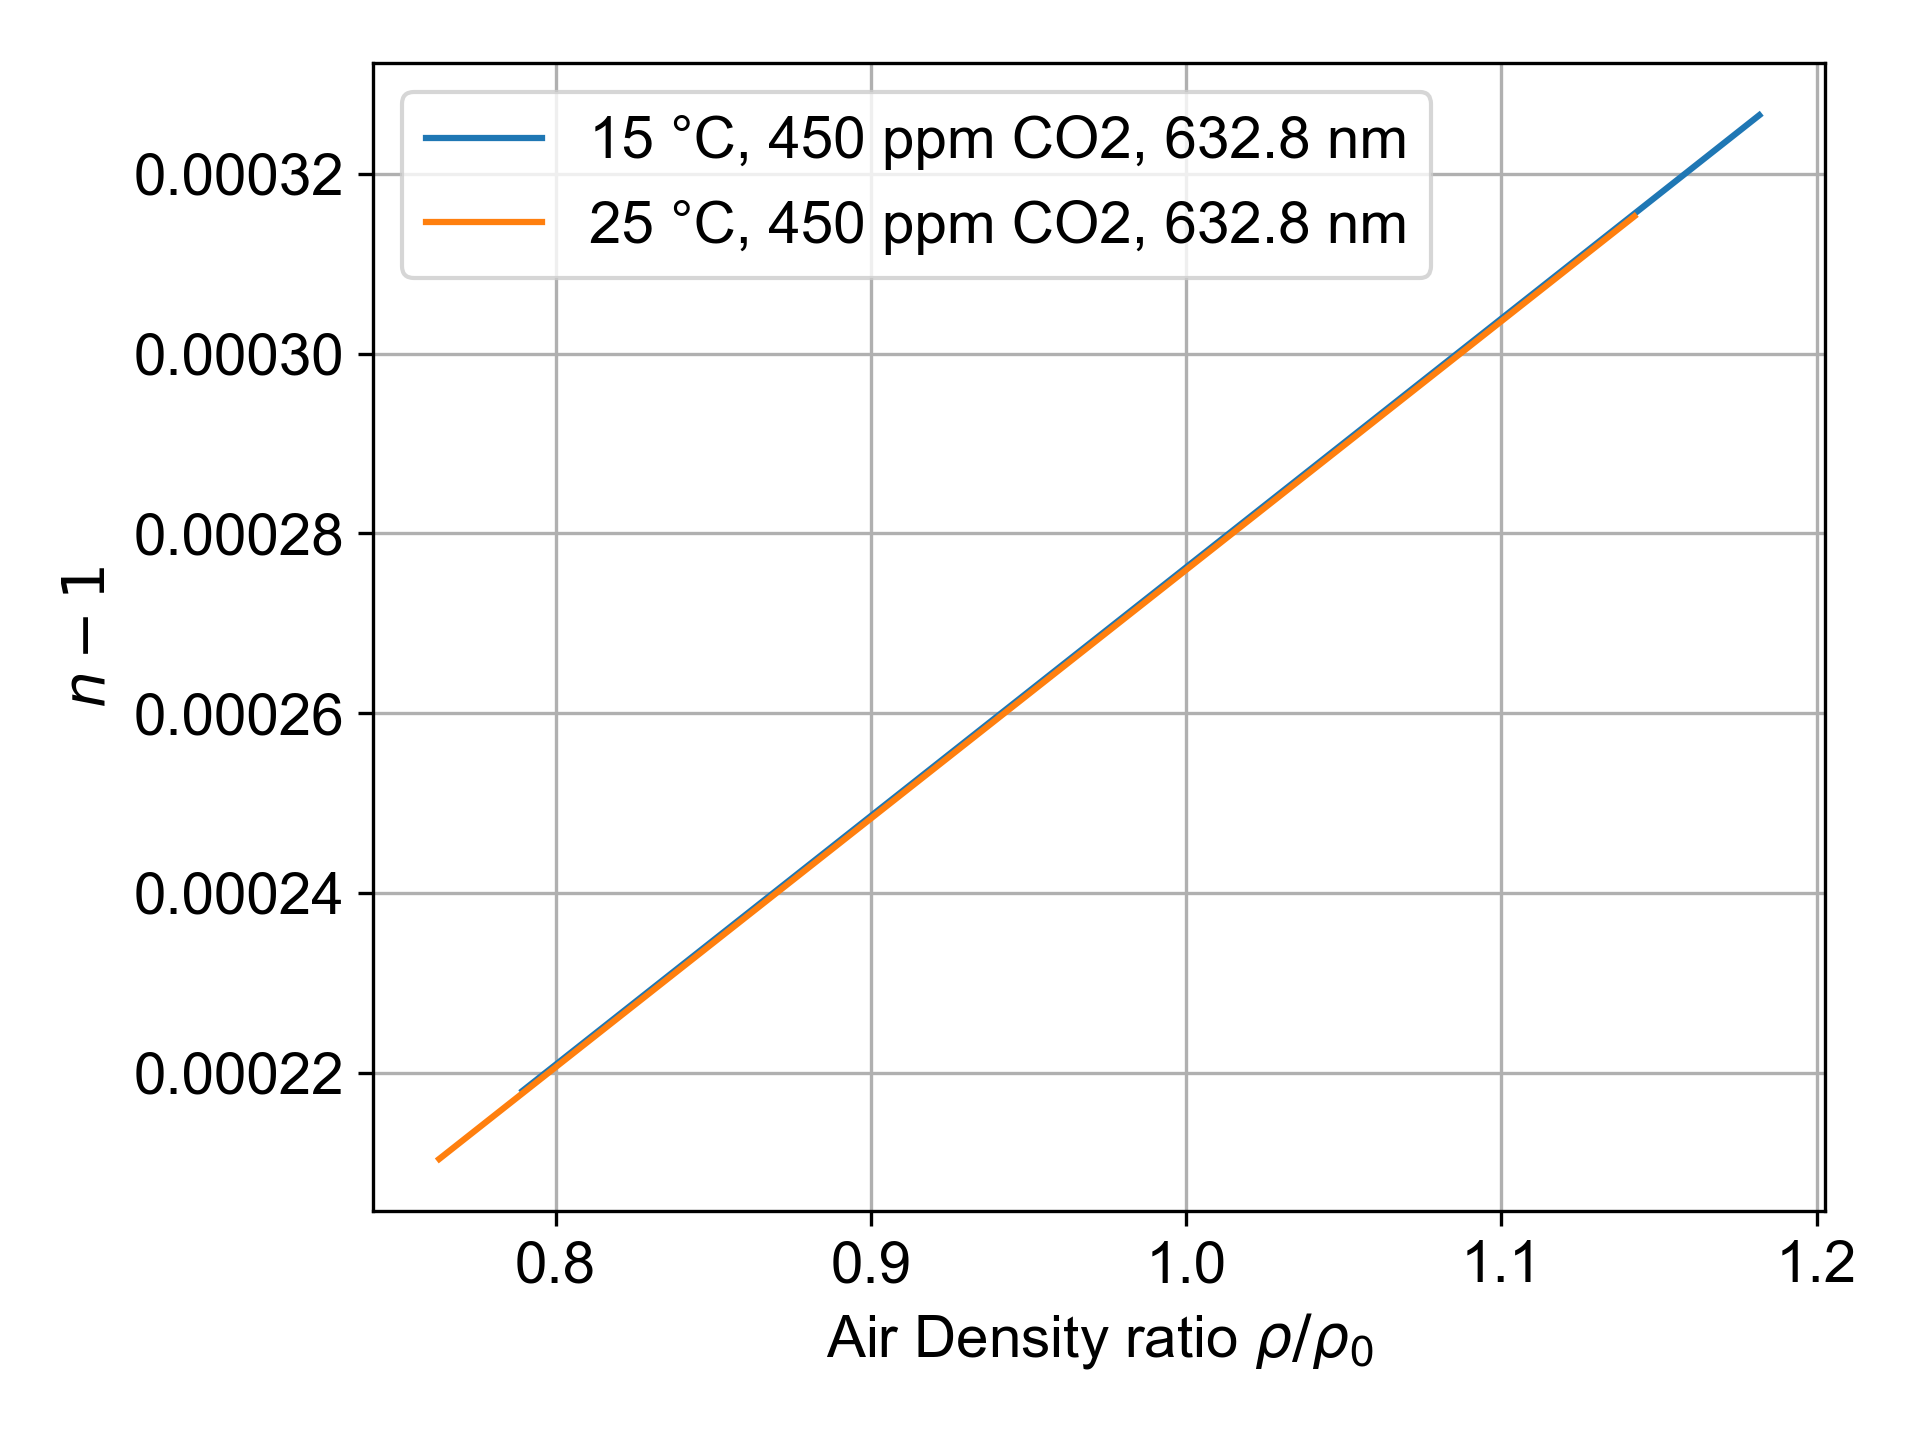
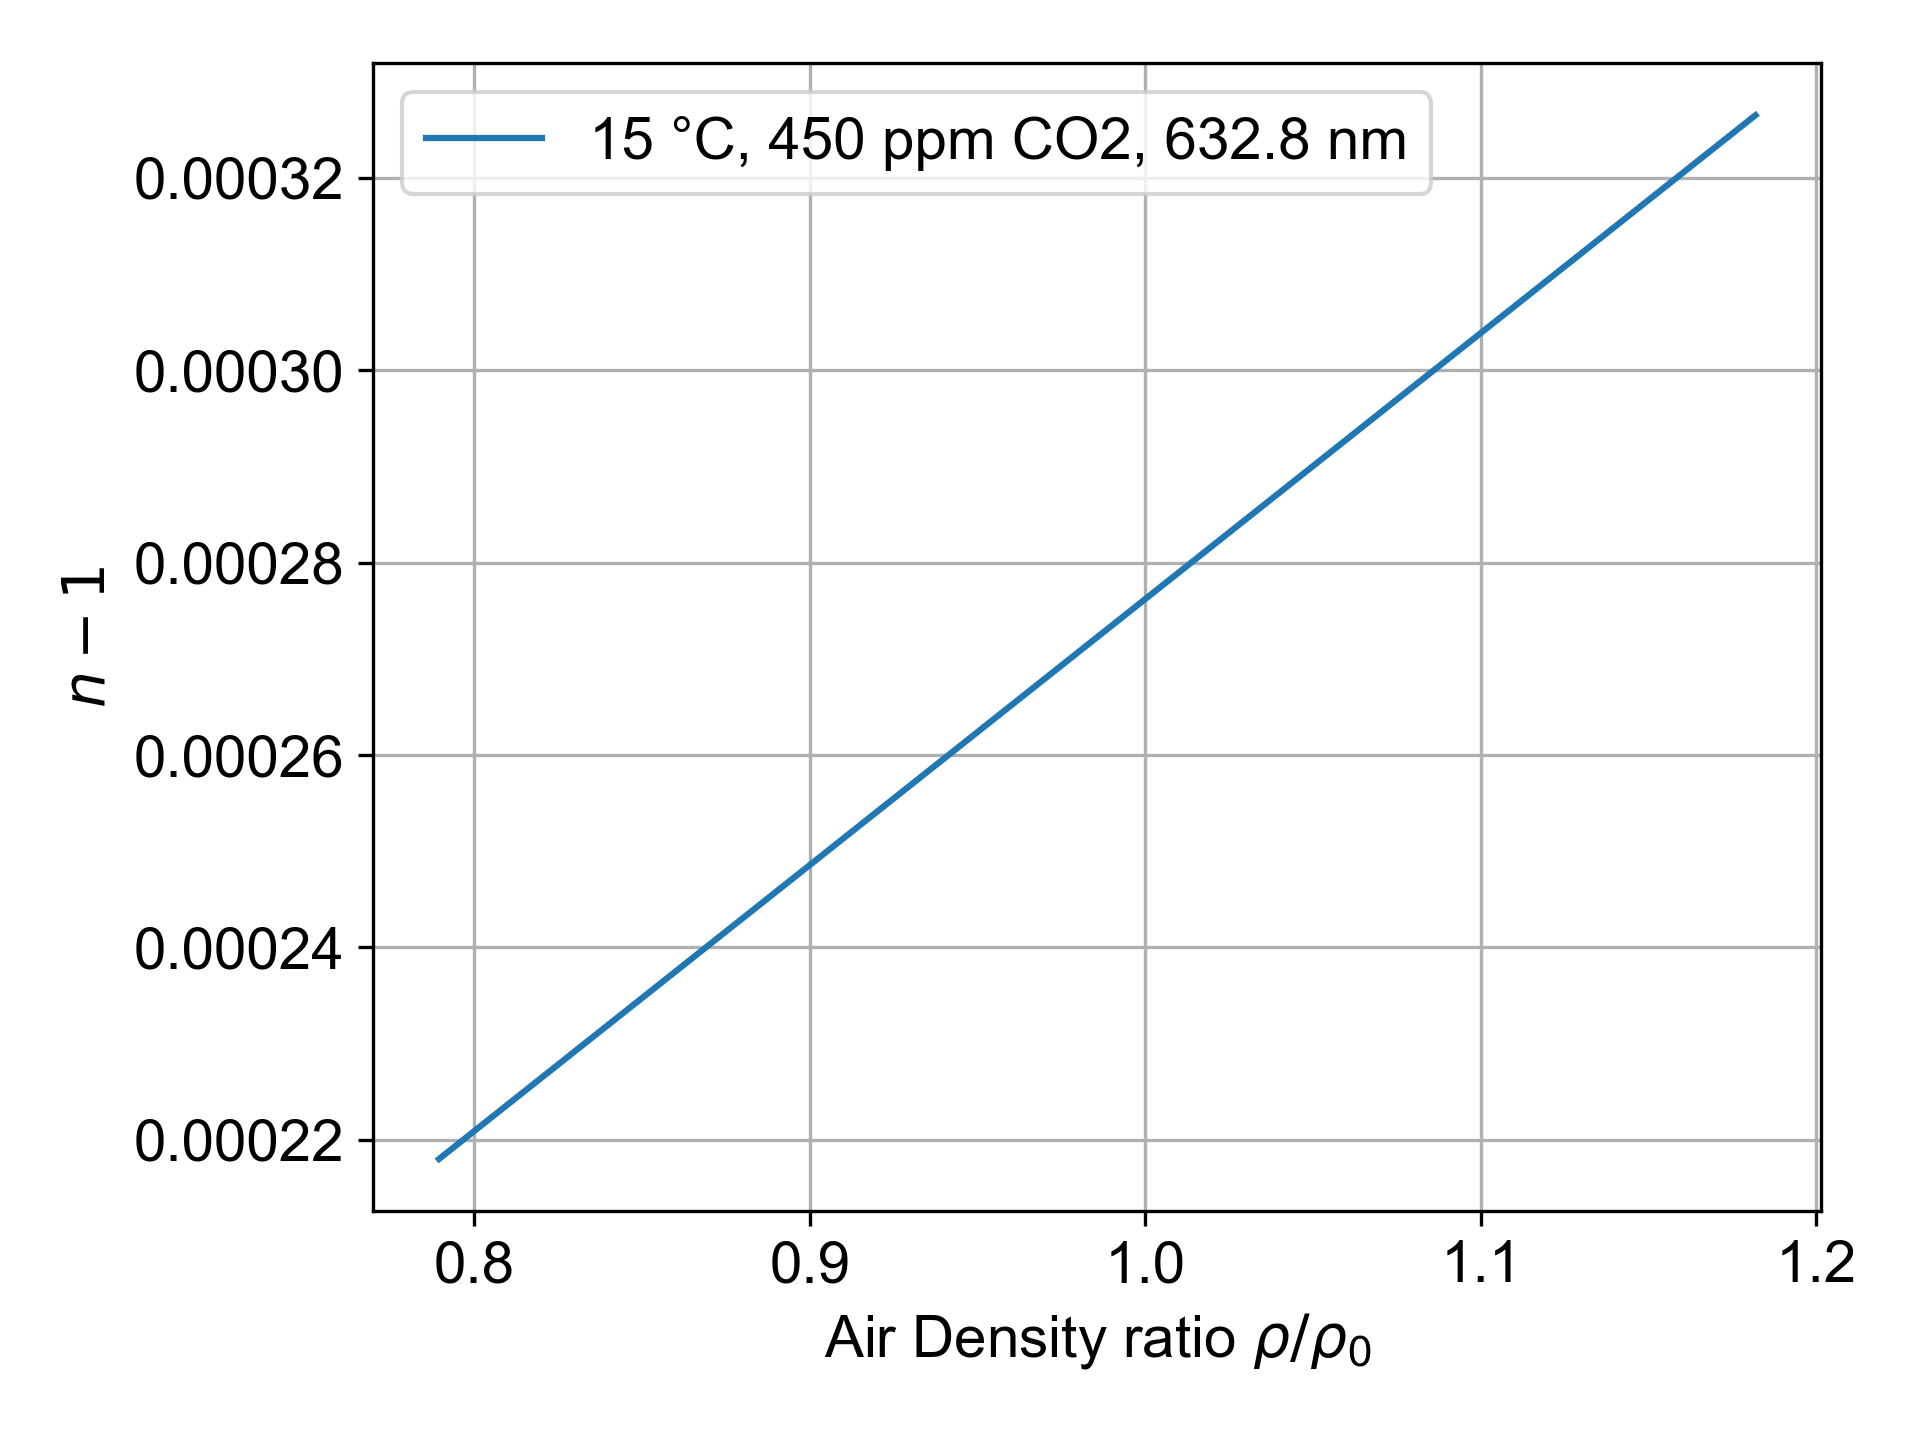
small shift on ftr

diff --git a/IIA/3A3/Supersonic_Nozzle_FTR/FTR.tex b/IIA/3A3/Supersonic_Nozzle_FTR/FTR.tex
@@ -146,10 +146,9 @@ Where $M$ is the Mach number before the shock wave.
 
 \subsection{Schlieren visualisation technique}
 
-The setup for the schlieren visualisation technique is shown in figure \ref{fig:xz_shlierian}.
+The setup for the Schlieren visualisation technique is shown in figure \ref{fig:xz_shlierian}.
 The light source is placed at the focal point of the first mirror, such to get collimated light through the tunnel.
-The second mirror focuses the light onto a knife edge, which blocks the light from reaching the camera.
-Density gradients in the direction normal to the knife edge cause light rays to be deflected, and so some light reaches the camera.
+The second mirror focuses the light onto a knife edge, where density gradients in the direction normal to the knife edge cause light rays to be deflected, and so some light reaches the camera.
 Figure \ref{fig:xz_shlierian} shows rays deflected by horizontal density gradients are blocked by the knife edge.
 Figure \ref{fig:yz_shlierian} shows rays deflected by positive density gradients pass, but rays deflected by negative density gradients are blocked.
 
@@ -162,24 +161,26 @@ Figure \ref{fig:yz_shlierian} shows rays deflected by positive density gradients
 
 \begin{figure}[H]
     \centering
-    \includegraphics[width=0.7\textwidth]{yz_shlierian.jpg}
+    \includegraphics[width=0.8\textwidth]{yz_shlierian.jpg}
     \caption{Sketch of light rays passing through refractive index gradient in YZ plane.}
     \label{fig:yz_shlierian}
 \end{figure}
 
-Equations \ref{eqn:refractive_index_gradient} derived by Mazumdar \cite{Mazumdar_Amrita:2013} indicate it is not the refractive index $n$ causing ray deflection, but the gradient $\partial n / \partial y$ of this refractive index, and that light ray deflections bend towards regions of higher refractive index.
+Equations \ref{eqn:refractive_index_gradient} derived by Mazumdar \cite{Mazumdar_Amrita:2013} shown in the appendix, indicate it is not the refractive index, $n$, causing ray deflection, but the gradient $\partial n / \partial y$ of this refractive index.
+It is also explained that light ray deflections bend towards regions of higher refractive index.
 The relation between the refractive index and density of air is shown to be approximately linear in figure \ref{fig:refractive_index_vs_density} from literature \cite{refractiveindex_info} \cite{Ciddor:96}.
 
 Considering a normal shock wave, the density can be considered as a step function of y.
 This is because the thickness of the shock is on the order of a few molecular-mean-free paths \cite{babinsky_delery:2011}.
 From the linear relation of refractive index and density, the refractive index is also a step function, and so its derivative is a dirac delta function.
 When integrated over the thickness of the shock, as in equation \ref{eqn:refractive_index_gradient}, this gives an angle of deflection proportional to density gradient.
+This means that wider, darker bands with a larger angle of deflection correspond to regions of higher density gradient, and so stronger shock waves.
 
 For regions of negetive density gradient, the light rays are deflected towards the knife edge and so are blocked, and so appear dark in the image.
 For regions of positive density gradient, the light rays are deflected away from the knife edge and so pass through, and so appear bright in the image.
 
-A normal shock down the tunnel has a positive density gradient in the x direction, and no density gradient in the y direction.
-This means the knife edge should be placed in the y direction, such that the density gradient can be seen.
+A normal shock down the tunnel has a positive density gradient in the $x$ direction, and little density gradient in the $y$ direction.
+This means the knife edge should be placed vertically in the image, and the shock wave should appear as a dark band, with a light band in the downstream direction of it.
 
 \section{Method}
 \subsection{Part 1}
@@ -256,8 +257,26 @@ Further uncertainty analysis in the area ratio and stagnant pressure ratio accro
 Uncertainty analysis is not conducted for the location of the shock wave as this is already a very rough approximation due to boundary layer effects.
 
 \subsection{Part 2}
-\subsubsection{Procedure}
+
 \subsubsection{Apparatus}
+
+Setup in the supersonic wind tunnel is shown in figure \ref{fig:supersonic_tunnel}.
+
+\begin{figure}[H]
+    \centering
+    \includegraphics[width=0.8\textwidth]{flow_layout.png}
+    \caption{Supersonic wind tunnel layout and location of static and pitot pressure sensors.}
+    \label{fig:supersonic_tunnel}
+\end{figure}
+
+Digital pressure sensors were used to measure the static and stagnation pressure in the working section.
+An additional sensor was used far upstream in the settling chamber to measure the stagnation pressure of the incoming flow.
+
+\subsubsection{Procedure}
+
+Started recording the pressure sensors and then turned on the tunnel.
+Schlieren images were taken of the normal shockwave on startup and working state of the tunnel.
+The tunnel was then turned off and after pressure returned to atmospheric, recording was stopped.
 
 \section{Results}
 

diff --git a/IIA/3A3/Supersonic_Nozzle_FTR/Ciddor 1996 - air.py b/IIA/3A3/Supersonic_Nozzle_FTR/Ciddor 1996 - air.py
@@ -147,7 +147,7 @@ rho0 = P0/(R*T1)
 
 plt.figure(3)
 plt.plot(rho1 / rho0, n6-1, label="15 °C, 450 ppm CO2, 632.8 nm")
-plt.plot(rho2 / rho0, n7-1, label="25 °C, 450 ppm CO2, 632.8 nm")
+#plt.plot(rho2 / rho0, n7-1, label="25 °C, 450 ppm CO2, 632.8 nm")
 
 plt.xlabel('Air Density ratio $\\rho/\\rho_0$')
 plt.ylabel('$n-1$')
